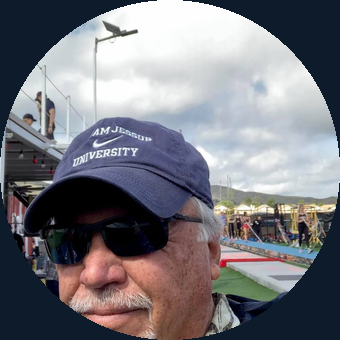
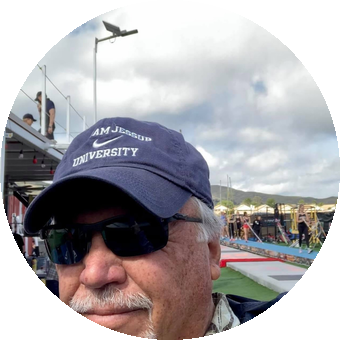
media.html: kent-circle.png centered in bio, Preorder CTA updates

diff --git a/media.html b/media.html
@@ -73,26 +73,26 @@
         /* BIO CARD */
         .bio-card {
             display: flex;
-            gap: 40px;
-            align-items: flex-start;
+            flex-direction: column;
+            align-items: center;
+            text-align: center;
             background: var(--navy-mid);
             border: 1px solid #2a3f58;
             border-radius: 12px;
             padding: 36px;
+            gap: 28px;
         }
         .bio-photo-wrap { flex: 0 0 auto; }
         .bio-photo {
-            width: 140px;
-            height: 140px;
-            border-radius: 50%;
-            object-fit: cover;
-            object-position: top;
-            border: 3px solid var(--gold);
+            width: 180px;
+            height: 180px;
             display: block;
+            border-radius: 0;
+            border: none;
         }
         .bio-initial {
-            width: 140px;
-            height: 140px;
+            width: 180px;
+            height: 180px;
             background: var(--gold);
             border-radius: 50%;
             display: flex;
@@ -111,6 +111,7 @@
             display: flex;
             gap: 24px;
             flex-wrap: wrap;
+            justify-content: center;
             margin-top: 20px;
             padding-top: 20px;
             border-top: 1px solid #2a3f58;
@@ -238,7 +239,7 @@
 
 <nav class="nav">
     <a href="index.html" class="nav-brand">Coaching <span>Gen Z</span> Athletes</a>
-    <a href="preorder.html" class="nav-cta">Get the Book &#8594;</a>
+    <a href="preorder.html" class="nav-cta">Preorder the Book &#8594;</a>
 </nav>
 
 <header class="page-header">
@@ -256,7 +257,7 @@
 
         <div class="bio-card">
             <div class="bio-photo-wrap">
-                <img src="assets/kent-headshot.jpg" alt="Kent Rhodes — Author and Pole Vault Coach"
+                <img src="assets/kent-circle.png" alt="Kent Rhodes — Author and Pole Vault Coach"
                      class="bio-photo"
                      onerror="this.style.display='none'; this.nextElementSibling.style.display='flex'">
                 <div class="bio-initial" style="display:none;">KR</div>
@@ -356,7 +357,7 @@
             <div class="book-block-text">
                 <h3>Coaching Generation Z Athletes: A Guide for Modern Sports Leaders</h3>
                 <p>14 chapters. A complete system for communication, motivation, accountability, and team culture with the generation shaped by COVID, social media, and constant information overload. Includes the Pole Vault Cue Dictionary appendix and access to five digital coaching tools.</p>
-                <a href="preorder.html" class="btn-sm">Order the Book &#8594;</a>
+                <a href="preorder.html" class="btn-sm">Preorder the Book &#8594;</a>
             </div>
         </div>
     </section>
@@ -382,7 +383,7 @@
     <p>
         <strong>Coaching Generation Z Athletes</strong> &nbsp;&middot;&nbsp; Kent Rhodes &nbsp;&middot;&nbsp;
         <a href="index.html">Home</a> &nbsp;&middot;&nbsp;
-        <a href="preorder.html">Get the Book</a> &nbsp;&middot;&nbsp;
+        <a href="preorder.html">Preorder the Book</a> &nbsp;&middot;&nbsp;
         <a href="mailto:[email redacted]">[email redacted]</a>
     </p>
 </footer>